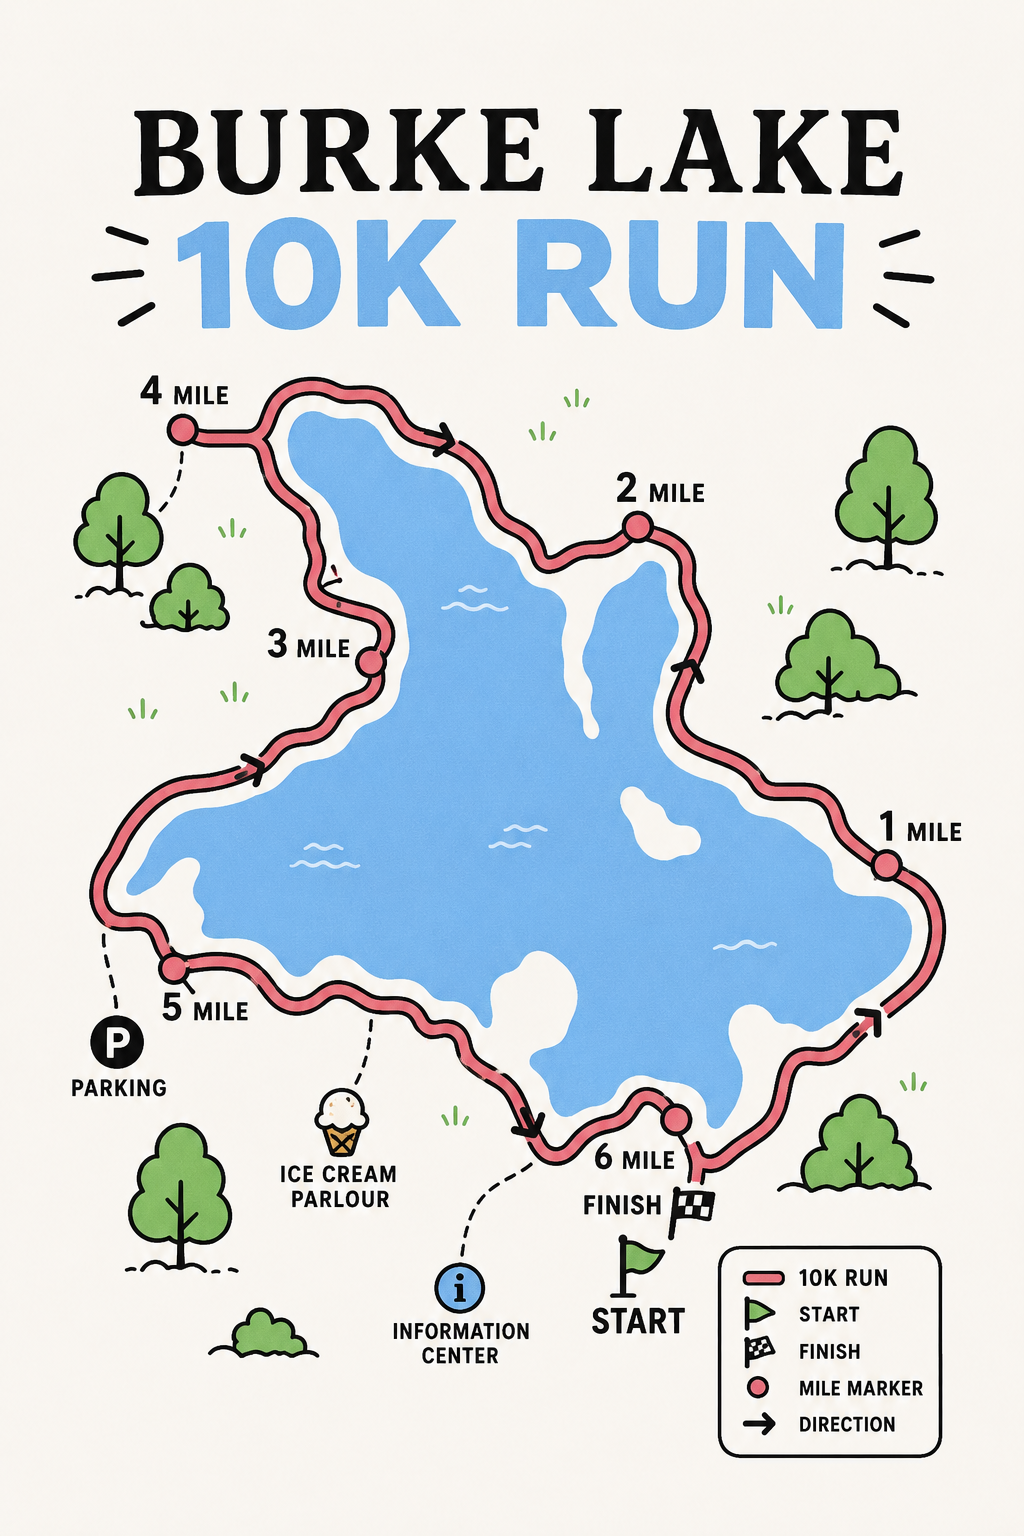
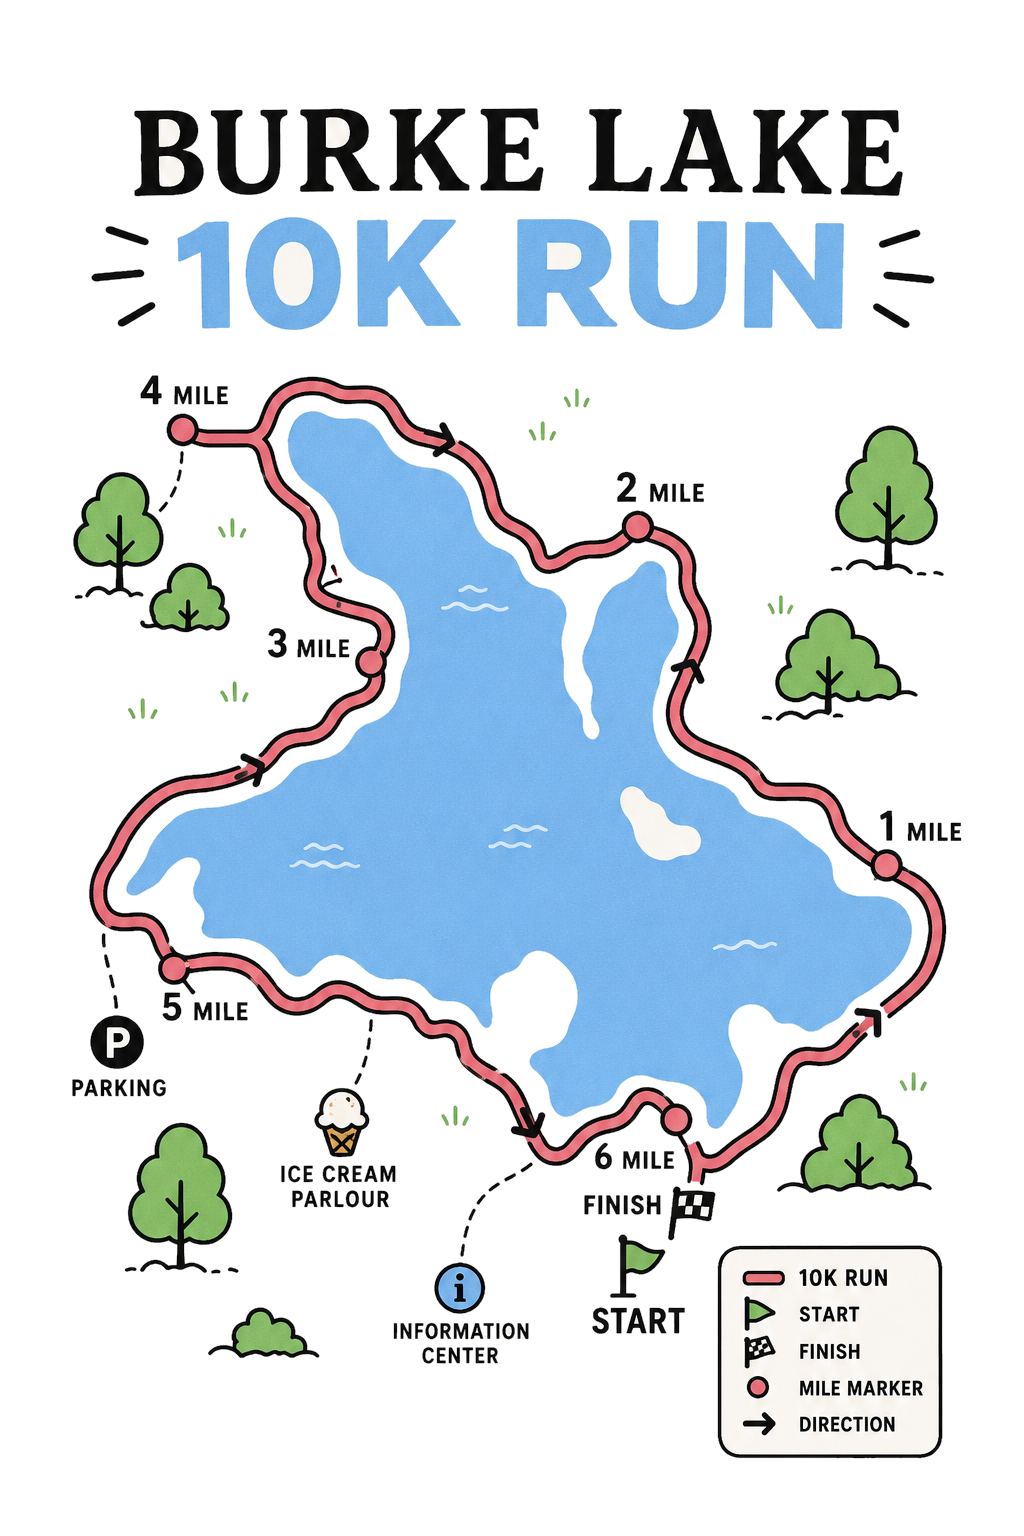
Simplify course map section

diff --git a/app/globals.css b/app/globals.css
@@ -85,17 +85,9 @@ h1 em, h2 em { font-family: var(--serif); font-weight: 400; letter-spacing: -.07
 .section-heading.centered { max-width: 700px; margin: auto; text-align: center; }
 .section-heading h2, .experience h2, .impact h2, .what-you-get h2, .registration-callout h2 { margin: 0; color: var(--ink); font-size: clamp(42px, 5vw, 70px); line-height: .98; font-weight: 900; }
 .section-heading > p:last-child { max-width: 520px; margin: 21px auto 0; color: var(--muted); font-size: 16px; line-height: 1.55; }
-.course-map { position: relative; display: grid; grid-template-columns: minmax(0, 1fr) 320px; gap: 0; max-width: 860px; margin: 0 auto 88px; overflow: hidden; background: #fffdf8; border: 1px solid #e4e5e1; box-shadow: 0 21px 54px rgba(7,27,63,.1); }
-.course-map::before { content: ""; position: absolute; z-index: 0; width: 350px; height: 350px; left: -170px; bottom: -190px; border: 1px solid rgba(14,75,199,.15); border-radius: 50%; box-shadow: 0 0 0 28px rgba(14,75,199,.035), 0 0 0 62px rgba(14,75,199,.025); }
-.course-map-copy { position: relative; z-index: 1; display: flex; flex-direction: column; justify-content: center; padding: 58px 44px; color: var(--ink); background: linear-gradient(155deg, #f5f1e7, #fffdf8); }
-.course-map-copy .eyebrow { margin-bottom: 16px; }
-.course-map-copy h3 { margin: 0; font-size: clamp(35px, 3.2vw, 49px); line-height: .95; letter-spacing: -.065em; }
-.course-map-copy > p:last-child { margin: 23px 0 0; color: var(--muted); font-size: 14px; line-height: 1.6; }
-.course-map-art { position: relative; min-height: 480px; overflow: hidden; background: #f8f5ef; }
-.course-map-art::after { content: "10K course preview"; position: absolute; top: 20px; right: 20px; padding: 8px 11px; color: #fff; background: var(--ink); font-size: 9px; font-weight: 900; letter-spacing: .11em; text-transform: uppercase; }
-.course-map-art img { display: block; width: 100%; height: 100%; min-height: 480px; object-fit: cover; object-position: center; }
-.course-map-caption { position: absolute; z-index: 2; right: 18px; bottom: 17px; color: var(--ink); font-size: 8px; font-weight: 900; letter-spacing: .08em; text-transform: uppercase; }
-.course-map-caption span { margin-right: 5px; color: #ef6e7d; }
+.course-map { width: min(100%, 520px); margin: 0 auto 88px; padding: 0; overflow: hidden; background: #050505; box-shadow: 0 21px 54px rgba(7,27,63,.16); }
+.course-map figcaption { padding: 14px 18px; color: #fff; background: #050505; font-size: 10px; font-weight: 900; letter-spacing: .13em; text-align: center; text-transform: uppercase; }
+.course-map img { display: block; width: 100%; height: auto; }
 .race-grid { display: grid; grid-template-columns: repeat(3, 1fr); gap: 17px; margin-top: 56px; }
 .race-card { position: relative; min-height: 391px; display: flex; flex-direction: column; padding: 28px; overflow: hidden; border: 1px solid transparent; transition: transform .25s ease, box-shadow .25s ease; }
 .race-card:hover, .race-card.selected { transform: translateY(-6px); box-shadow: 0 16px 34px rgba(11,35,80,.15); }
@@ -230,9 +222,6 @@ footer p { margin: 0; text-align: right; text-transform: uppercase; }
   .countdown-intro { width: 188px; padding-inline: 17px; }
   .countdown-unit { min-width: 64px; }
   .countdown button { min-width: 122px; padding-inline: 10px; }
-  .course-map { grid-template-columns: minmax(0, 1fr) 290px; }
-  .course-map-copy { padding: 42px 29px; }
-  .course-map-art, .course-map-art img { min-height: 435px; }
   .intro-strip { gap: 18px; flex-wrap: wrap; }
   .section { padding: 96px 28px; }
   .race-card { min-height: 370px; padding: 22px; }
@@ -278,13 +267,7 @@ footer p { margin: 0; text-align: right; text-transform: uppercase; }
   .section { padding: 75px 21px; }
   .section-heading h2, .experience h2, .impact h2, .what-you-get h2, .registration-callout h2 { font-size: 43px; }
   .section-heading > p:last-child { font-size: 14px; }
-  .course-map { display: flex; flex-direction: column-reverse; margin-bottom: 57px; }
-  .course-map-copy { padding: 35px 25px 38px; }
-  .course-map-copy h3 { font-size: 39px; }
-  .course-map-art, .course-map-art img { min-height: 0; }
-  .course-map-art img { height: auto; aspect-ratio: 2 / 3; object-fit: cover; }
-  .course-map-art::after { top: 13px; right: 13px; font-size: 8px; }
-  .course-map-caption { right: 13px; bottom: 13px; font-size: 7px; }
+  .course-map { width: 100%; margin-bottom: 57px; }
   .race-grid { grid-template-columns: 1fr; gap: 11px; margin-top: 34px; }
   .race-card { min-height: 292px; }
   .race-title { margin-top: 35px; }

diff --git a/app/page.tsx b/app/page.tsx
@@ -202,15 +202,8 @@ export default function Home() {
 
       <section className="choose section" id="choose">
         <figure className="course-map">
-          <div className="course-map-copy">
-            <p className="eyebrow ink"><span aria-hidden="true">✦</span> A closer look at the course</p>
-            <h3>Six miles around<br />Burke Lake.</h3>
-            <p>The 10K circles the lake, with the start and finish at Shelter A. Save it now so race morning feels easy.</p>
-          </div>
-          <div className="course-map-art">
-            <img src="/images/burke-lake-10k-course-map.png" alt="Illustrated Burke Lake 10K route map with start, finish, parking, and mile markers" loading="lazy" />
-            <span className="course-map-caption"><span aria-hidden="true">●</span> Course illustration · 10K route preview</span>
-          </div>
+          <figcaption>Course map</figcaption>
+          <img src="/images/burke-lake-10k-course-map.png" alt="Illustrated Burke Lake 10K route map with start, finish, parking, and mile markers" loading="lazy" />
         </figure>
         <div className="section-heading centered">
           <p className="eyebrow ink"><span aria-hidden="true">01</span> Pick your way to show up</p>